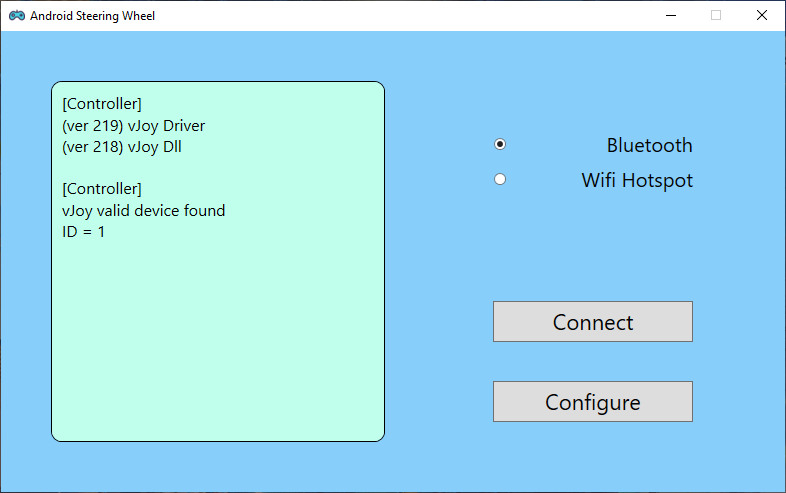
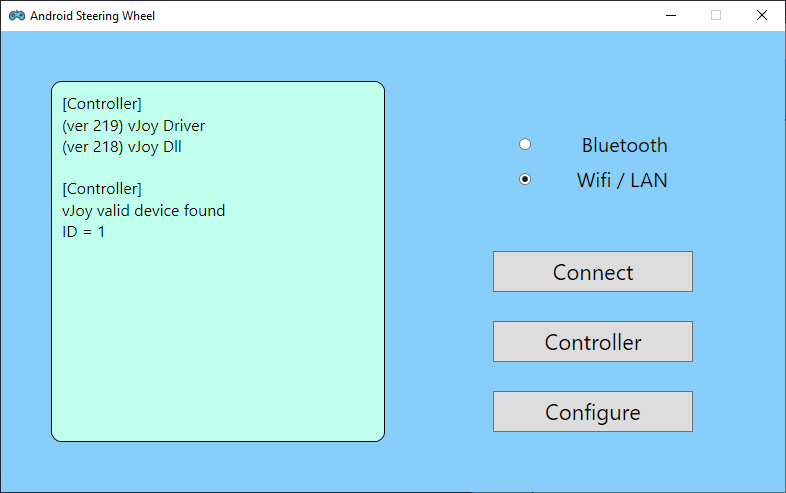
udpate README

diff --git a/README.md b/README.md
@@ -61,8 +61,16 @@ Also a potential Xbox controller emulator
      3. Server will start listening  
      4. Tap `Listening` will stop server  
      5. If connected, tap `Connected` will disconnect device and stop server  
-  6. `Configure` button leads to the configuration page  
-     It is used to configure buttons and stick axis in a game or steam when vJoy  controller is not recognized or has wrong settings  
+  6. `Controller` button leads to the xbox controller mapping page  
+     It is used to map buttons and stick axis in a game or steam when vJoy controller is not recognized or has wrong settings
+  7. `Configure` button opens the motion angle configuration window
+     "Steering Angles" control the left and right limit of the steering wheel angle (in degrees)
+     "Acceleration Angles" control the forward and backward limit of the phone angle for acceleration
+     "Acceleration Angles (Rest)" is also for acceleration, but defines the range of angles where phone is considered at rest (no acceleration)
+
+Finally, the first run of Windows app after installation may be slow or not responding.\
+This is because the app will need to be initialized for the first time, a [well-known issue](https://stackoverflow.com/a/1308732/11397618) of ClickOnce deployment.\
+In this case, close the app and open again.
 
 </details>
 
@@ -122,3 +130,5 @@ __Windows Side__
 <img src="Assets/pc1.png" width="600" alt="pc1">
 
 <img src="Assets/pc2.png" width="600" alt="pc2">
+
+<img src="Assets/pc3.png" width="600" alt="pc3">
